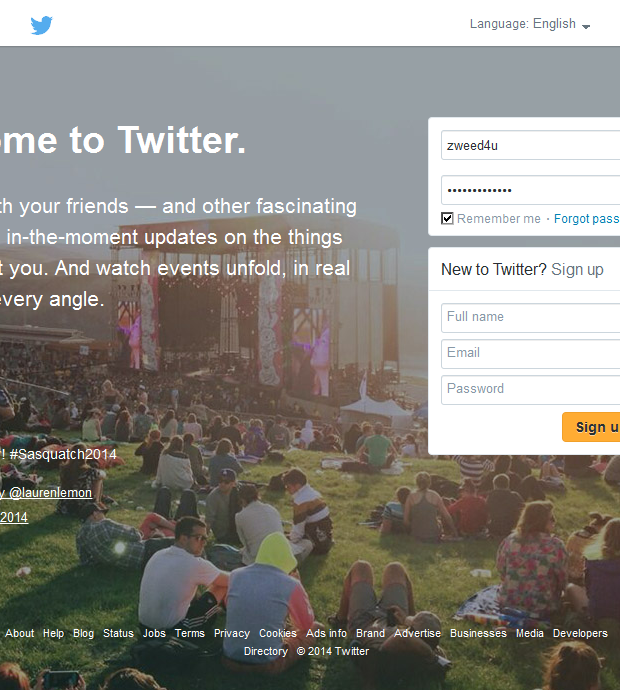
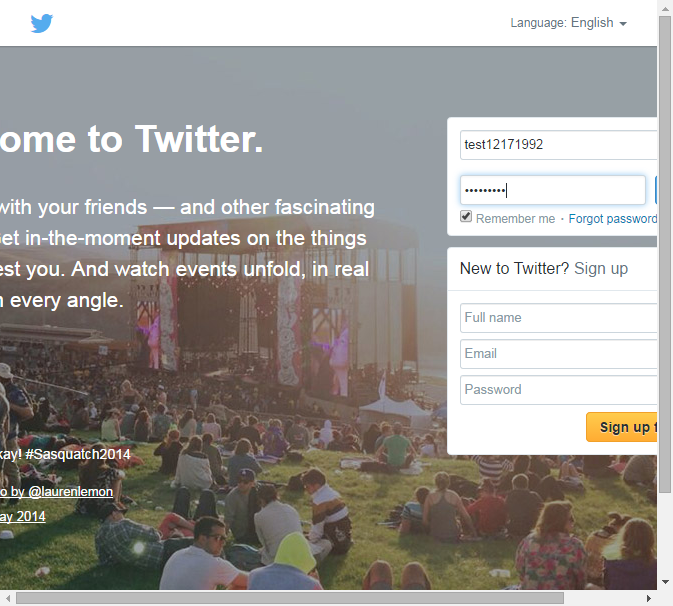
second commit to deskTweet - uses chrome webdriver for viewing

diff --git a/tweeter.py b/tweeter.py
@@ -13,7 +13,6 @@ import urllib2
 import time
 from selenium import webdriver
 from selenium.webdriver.common.keys import Keys
-from pyvirtualdisplay import Display
 import os
 import time
 #try:
@@ -42,8 +41,9 @@ br.set_handle_refresh(mechanize._http.HTTPRefreshProcessor(), max_time=1)
 # User-Agent (this is cheating, ok?)
 br.addheaders = [('User-agent', 'Chrome')]
 
-browser = webdriver.PhantomJS(executable_path='C:\Users\Zack\Desktop\deskTweet\phantomjs.exe')
 
+browser = webdriver.Chrome()
+#browser = webdriver.PhantomJS(executable_path='C:\Users\Zack\Desktop\deskTweet\phantomjs.exe')
 
 # The site we will navigate into, handling it's session
 br.open('https://twitter.com/')
@@ -60,6 +60,7 @@ br.select_form(nr=1)
 
 
 
+browser.delete_all_cookies()
 
 # User credentials
 #####HANDLE LOGIN CHECKING#####
@@ -80,27 +81,67 @@ br.submit()
 
 #Prints html of main page after login
 br.open('https://twitter.com/')
+browser.get('https://twitter.com')
 
 if str(username) not in br.response().read():
     print "\n***Login failed***\n"
 
 else:
-    browser.get('https://twitter.com')
-    
-	
+    	
     user = browser.find_element_by_id('signin-email')
     passw = browser.find_element_by_id('signin-password')
-    user.send_keys(username)
+    user.send_keys(str(username).lower())
     passw.send_keys(password)
     browser.save_screenshot("login.png")
-    #browser.find_element_by_class_name('submit btn primary-btn flex-table-btn js-submit').click()
-
 	
     LOGIN_BUTTON_XPATH = '//*[@id="front-container"]/div[2]/div[2]/form/table/tbody/tr/td[2]/button'
     button = browser.find_element_by_xpath(LOGIN_BUTTON_XPATH)
     button.click()
+    time.sleep(1)
     browser.save_screenshot("home.png")
-    print "Welcome to your " + str(browser.title)
+    print "\nWelcome @" + str(username) +"\n"
+
+    COMPOSE_FIELD_XPATH = '//*[@id="tweet-box-mini-home-profile"]'
+    field = browser.find_element_by_xpath(COMPOSE_FIELD_XPATH)
+    field.click()
+    browser.save_screenshot("compose.png")
+
+    defaultText = browser.find_element_by_xpath("//*[@id='tweet-box-mini-home-profile']/div/br").text
+    print "In tweetbox -> ("+str(defaultText)+")"
+    
+    #browser.find_element_by_xpath("//*[@id='tweet-box-mini-home-profile']/div").send_keys(message)
+    browser.save_screenshot("default.png")
+
+
+
+    time.sleep(2)
+    browser.find_element_by_xpath("//*[@id='tweet-box-mini-home-profile']").send_keys("ping3")
+    changedText = browser.find_element_by_xpath("//*[@id='tweet-box-mini-home-profile']/div").text
+    browser.save_screenshot("myTweet.png")
+    print "In tweetbox -> ("+str(changedText)+")"
+    time.sleep(2)
+    TWEET_SEND_XPATH = '//*[@id="page-container"]/div[2]/div[1]/div/div[3]/form/div[2]/div[2]/button'
+    send = browser.find_element_by_xpath(TWEET_SEND_XPATH)
+    send.click()
+    time.sleep(2)
+    browser.save_screenshot("sent.png")
+    print "Tweet successfully posted!"
+
+    '''
+    TWEET_XPATH = '//*[@id="tweet-box-mini-home-profile"]/div'
+    TWEET_TEXT = browser.find_element_by_xpath(TWEET_XPATH)
+
+
+    browser.findElement(By.xpath('//*[@id="tweet-box-mini-home-profile"][div[text()="hello world"]]'));
+    #TWEET_TEXT.send_keys('dnkjasnd')
+    browser.save_screenshot("tweet.png")
+
+
+
+    start = browser.find_element_by_xpath("//*[@id='tweet-box-mini-home-profile']/div").getText()
+    print start
+    '''
+    
     '''
     time.sleep(3)
         

diff --git a/README.md b/README.md
@@ -1,4 +1,4 @@
-deckTweet v0.1
+deckTweet v0.8
 
 Much more to come...
 @zweed4u
